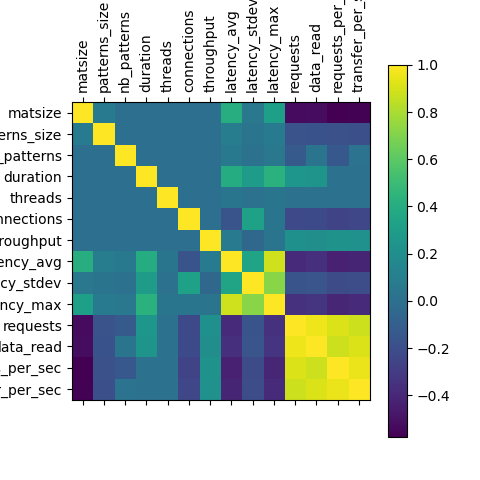
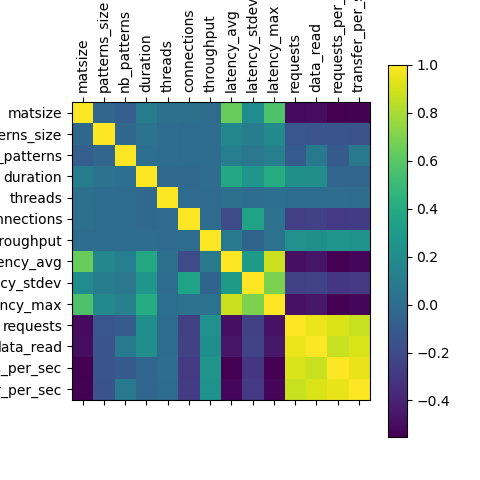
graphs

diff --git a/run_plots.py b/run_plots.py
@@ -5,6 +5,12 @@ import numpy as np
 
 
 results = pd.read_csv("performance_data.csv")
+result_count = len(results)
+print(f"Total number of results: {result_count}")
+
+# filter out tests with requests == 0
+results = results[results['requests'] > 0]
+print(f"Number of results after filtering out tests with 0 requests: {len(results)}")
 
 # print how much data
 print("Result count = ", len(results))
@@ -189,3 +195,8 @@ plt.show()
 
 ## 3. average latency versus matrix size/number of patterns/pattern size
 ## barplot, x = matrix size, y = average latency
+
+### 3D plot, x = matrix size, y = number of patterns, z = pattern size, color = average latency
+
+scatter3D = plt.figure().add_subplot(projection='3d')
+
